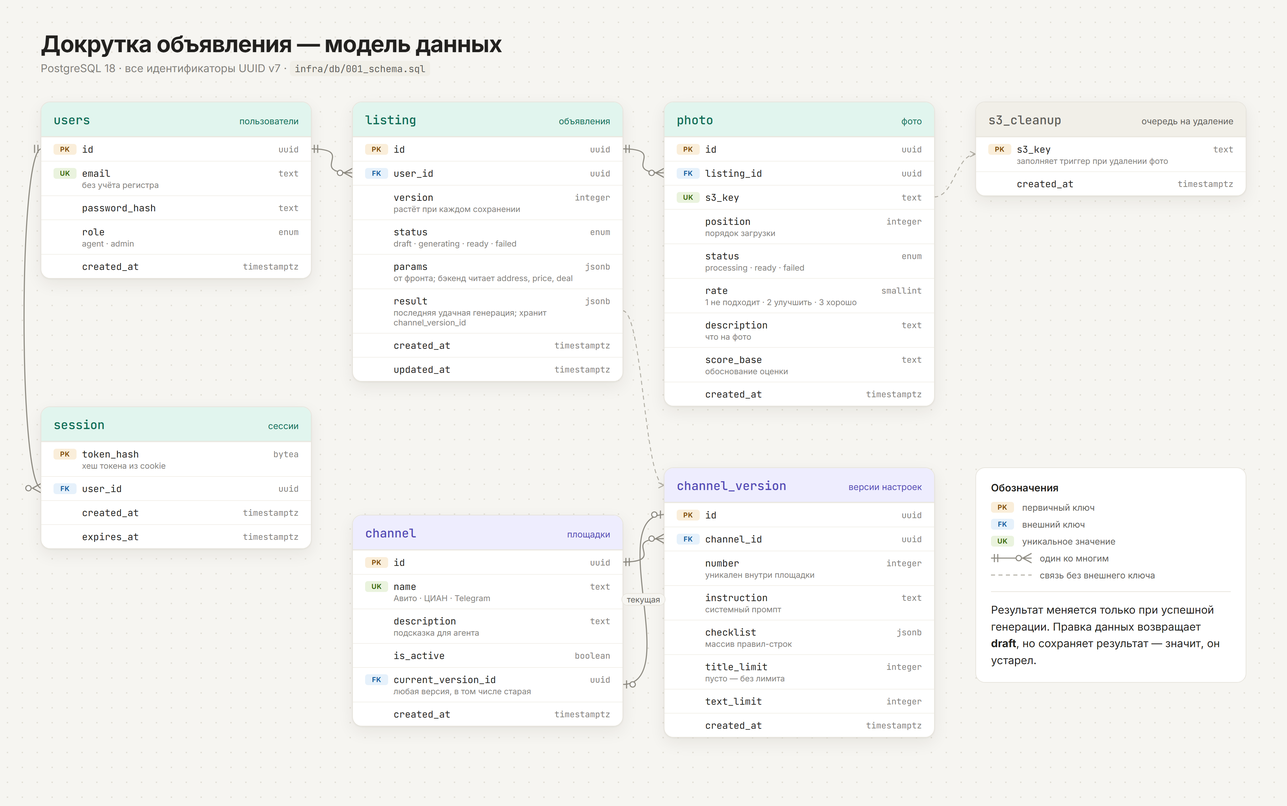
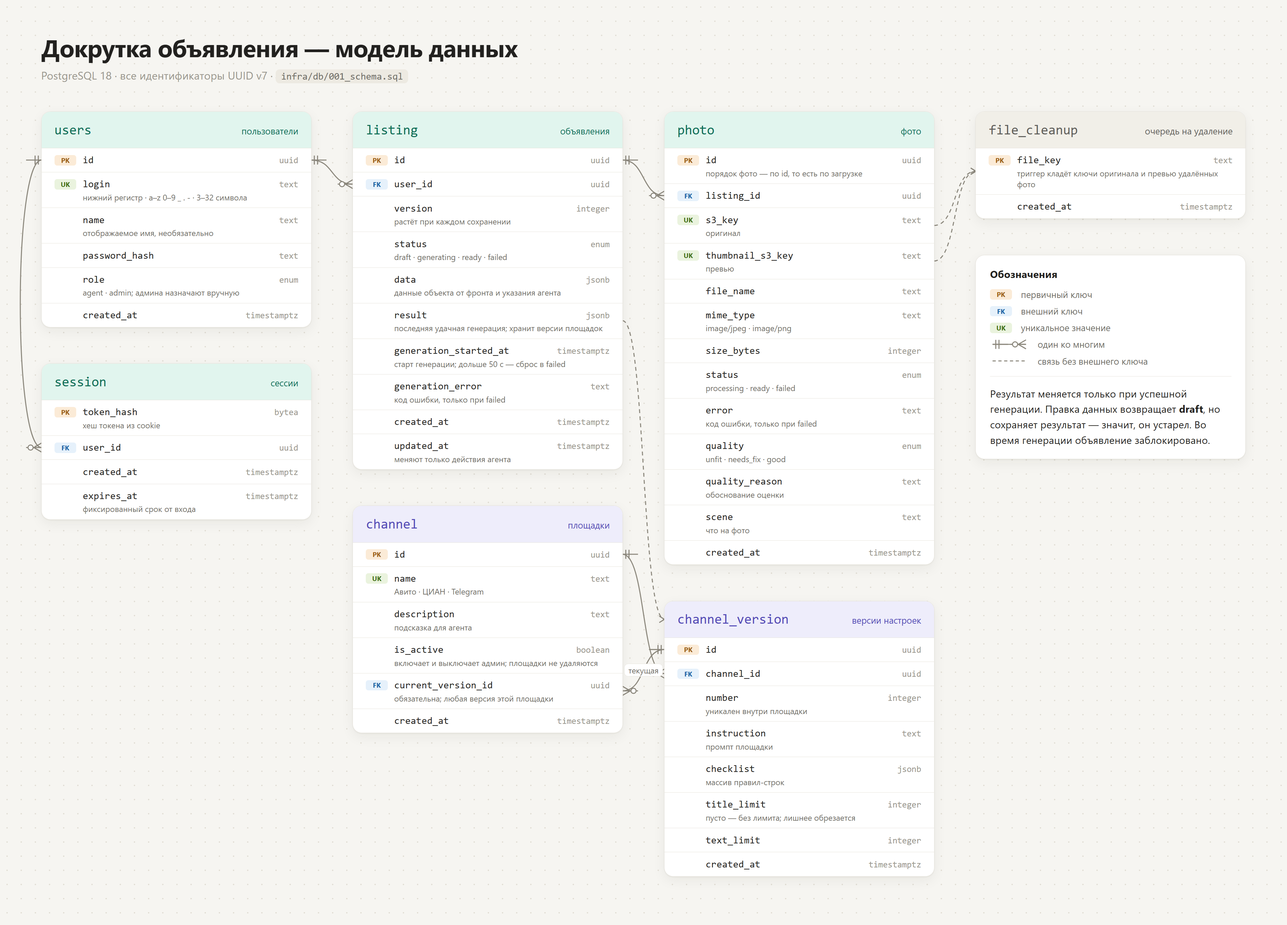
Пересобрать модель данных и записать требования
- users: вход по логину вместо email, необязательное отображаемое имя
- listing: params переименован в data, состояние генерации в объявлении
  (generation_started_at, generation_error), проверки согласованности статуса
- photo: превью, метаданные файла, код ошибки, AI-поля quality,
  quality_reason, scene; position убран, порядок — по загрузке
- channel: текущая версия обязательна
- s3_cleanup переименована в file_cleanup, в очередь попадает и превью
- infra/README.md и schema.png обновлены под новую схему
- docs/requirements.md: требования со стороны разработки и открытые вопросы

diff --git a/docs/requirements.md b/docs/requirements.md
@@ -1,0 +1,85 @@
+# Требования к продукту (со стороны разработки)
+
+Требования, которые следуют из модели данных и принятых технических решений. Это не пользовательские сценарии, а правила, которые обязаны соблюдать бэкенд, фронтенд и база.
+
+Статус: черновик, формируется при разборе схемы БД. Открытые вопросы — в конце.
+
+## Общие принципы
+
+- **О-1.** Названия полей в БД главные. Контракт API и код бэкенда следуют им или явно сопоставляют.
+- **О-2.** Все идентификаторы — UUID v7.
+
+## Пользователи и сессии
+
+- **П-1.** Вход по логину: 3–32 символа, только `A-Z a-z 0-9 _ . -`. Логин уникален без учёта регистра и хранится в нижнем регистре.
+- **П-2.** Пароль: 12–128 символов, не обрезается и не нормализуется. В БД хранится только хеш, формат хеша выбирает бэкенд.
+- **П-3.** Роли: `agent` и `admin`. Регистрация создаёт только агентов. Админа назначают вручную в БД, автоматического создания нет.
+- **П-8.** У пользователя есть необязательное отображаемое имя `name`. Если его нет, в интерфейсе показывается логин.
+- **П-9.** Блокировки пользователя нет: доступ закрывается только удалением, и данные удаляются вместе с ним.
+- **П-4.** Сессия: в cookie случайный токен, в БД только его хеш. Выход удаляет запись сессии.
+- **П-5.** Срок жизни сессии фиксированный и отсчитывается от момента входа. Скользящее продление пока не делаем.
+- **П-6.** Просроченные сессии периодически удаляются.
+- **П-7.** Роль в сессии не хранится, она читается из пользователя. Смена роли действует сразу.
+
+## Объявления
+
+- **Л-1.** Объявление принадлежит одному пользователю.
+- **Л-2.** Данные объекта хранятся одним JSON-документом в поле `data`. Его структуру задаёт контракт с фронтендом.
+- **Л-4.** Дополнительные указания агента для генерации хранятся в `data` вместе с остальными данными и учитываются при каждой генерации.
+- **Л-5.** `updated_at` меняется только от действий агента: правка данных, загрузка и удаление фото. Завершение генерации его не меняет. Список объявлений сортируется по `updated_at`.
+- **Л-3.** Защита от одновременного редактирования: у объявления есть версия, она растёт при каждом сохранении. Сохранение со старой версией отклоняется (`409`). К демо достаточно одного экрана «Объявление изменилось в другом окне, обновите страницу».
+
+## Генерация
+
+- **Г-1.** Генерация асинхронная и выполняется в фоне. Отдельной сущности «генерация» нет: состояние хранится в объявлении.
+- **Г-2.** На одно объявление одновременно идёт не больше одной генерации. Запуск атомарный: статус меняется на `generating`, только если генерация ещё не идёт.
+- **Г-3.** Во время генерации объявление заблокировано. Блокировку проверяет **бэкенд**: отклоняются правка данных, загрузка и удаление фото, удаление объявления.
+- **Г-4.** Время старта генерации сохраняется. Генерация, которая идёт дольше 50 секунд, сбрасывается в `failed`, блокировка снимается.
+- **Г-8.** Завершение генерации записывается только если объявление всё ещё в статусе `generating` и время старта совпадает с запуском. Поздний ответ сброшенной генерации отбрасывается и не перетирает новое состояние.
+- **Г-9.** Ошибка генерации хранится кодом, как у фото (Ф-8).
+- **Г-5.** Результат перезаписывается только при успешной генерации. Ошибка последней генерации хранится отдельно от результата, прошлый результат при сбое сохраняется.
+- **Г-6.** Правка данных возвращает статус `draft` и не стирает результат. `draft` вместе с непустым результатом означает «результат устарел».
+- **Г-7.** Результат хранит, на каких версиях площадок он получен.
+
+## Фото
+
+- **Ф-1.** У фото хранятся имя файла, MIME-тип, размер, позиция, статус, ключ файла и ключ превью в хранилище, ошибка обработки.
+- **Ф-2.** Статус `processing` покрывает подготовку превью и AI-оценку. `ready` — оба этапа завершены, `failed` — любой из них упал.
+- **Ф-3.** Генерация запускается, только когда все фото объявления в статусе `ready`.
+- **Ф-4.** AI-оценка фото — внутренние данные для генерации: `quality` (`unfit` / `needs_fix` / `good`), `quality_reason` (почему такая оценка), `scene` (что на фото). Фото не может быть `ready` без всех трёх полей.
+- **Ф-5.** Агент не меняет порядок фото вручную. Фото показываются в порядке загрузки, отдельного поля позиции нет: сортировка по `id` (UUID v7 растёт со временем). Рекомендованный порядок хранится только в результате генерации.
+- **Ф-6.** Фото в статусе `failed` не обрабатывается повторно: агент удаляет его и загружает заново.
+- **Ф-7.** На демо принимаются только JPEG и PNG. HEIC не поддерживается.
+- **Ф-8.** Ошибка обработки фото хранится кодом (`too_large`, `unsupported_format`, `ai_failed` и т. п.). Текст для пользователя бэкенд собирает по коду.
+
+## Площадки
+
+- **К-1.** У площадки есть уникальное название и описание-подсказка для агента. Машинного кода нет: площадки — это данные, и код не должен вести себя по-разному в зависимости от конкретной площадки. Всё поведение задаётся промптом, чек-листом и лимитами.
+- **К-2.** Админ создаёт площадки, включает и выключает их. Выключенная площадка не предлагается агентам, старые результаты по ней сохраняются.
+- **К-9.** Каждое сохранение настроек создаёт новую версию, даже если ничего не изменилось. Пропуск одинаковых версий — позже.
+- **К-10.** Автор версии не хранится.
+- **К-11.** Лимиты длины считаются в символах Unicode. Бэкенд сам проверяет длину ответа модели и обрезает то, что превышает лимит. Резать лучше по границе предложения или слова, а не посреди слова.
+- **К-12.** Общий системный промпт живёт в коде бэкенда и не версионируется: он меняется вместе с релизом. Версия площадки фиксирует только её собственные настройки.
+- **К-6.** Площадки не удаляются, только выключаются: на их версии ссылаются результаты.
+- **К-7.** У площадки всегда есть действующая версия настроек. Площадка и её первая версия создаются в одной транзакции.
+- **К-8.** Название, описание и признак включения не версионируются: они не влияют на результат генерации.
+- **К-3.** Настройки площадки (промпт, чек-лист, лимиты) версионируются. Версия неизменяема, каждое сохранение создаёт новую.
+- **К-4.** Чек-лист — упорядоченный список строк. Результат проверки ссылается на правила по порядку внутри версии.
+- **К-5.** Откат к старой версии — после демо.
+
+## Хранилище файлов
+
+- **Х-1.** Файлы хранятся в S3-совместимом хранилище.
+- **Х-2.** Файлы удаляются асинхронно через очередь `file_cleanup`. При удалении фото ключи оригинала и превью попадают в очередь в той же транзакции. Очередь заполняет триггер, поэтому каскадные удаления тоже учитываются. Фоновая задача стирает файл и только потом убирает ключ из очереди. Повторное удаление безопасно.
+- **Х-3.** Записи в очереди старше часа означают, что фоновая задача не работает.
+- **Х-4.** Осиротевшие файлы (загружены в хранилище, но запись в БД не создана) на демо допускаются осознанно. Сверку хранилища с БД можно добавить позже.
+
+## Открытые вопросы
+
+- Формат результата генерации (`listing.result`): обсуждается отдельно. Формат бэкенда и формат контракта сейчас расходятся. В любом случае результат хранит версии площадок (Г-7).
+
+- Открытая регистрация: кто угодно может завести аккаунт и тратить деньги на AI. Для демо неважно, решить до реальной эксплуатации.
+- Поле `name`: как его задавать — при регистрации или позже в профиле. В контракте его пока нет.
+
+- Лимит в 20 фото на объявление.
+- Какое хранилище на демо (MinIO в Compose?).

diff --git a/infra/README.md b/infra/README.md
@@ -19,31 +19,37 @@ docker compose up --build -d --wait
 
 | Таблица | Назначение |
 |---|---|
-| `users` | Агенты и админы. Вход по email, без учёта регистра. |
-| `session` | Вошедшие пользователи. В cookie лежит токен, в базе его хеш. Выход удаляет запись. |
+| `users` | Агенты и админы. Вход по логину, логин хранится в нижнем регистре. Необязательное отображаемое имя. |
+| `session` | Вошедшие пользователи. В cookie лежит токен, в базе его хеш. Срок жизни фиксированный. Выход удаляет запись. |
 | `channel` | Площадка: название, описание для агента, включена ли, текущая версия настроек. |
-| `channel_version` | Неизменяемая версия настроек площадки: промпт, чеклист, лимиты. Новое сохранение создаёт новую версию. |
-| `listing` | Объявление: данные объекта от фронта, результат последней удачной генерации, статус. |
-| `photo` | Фото объявления и его оценка нейросетью. |
-| `s3_cleanup` | Ключи файлов удалённых фото, которые фоновая задача должна стереть из S3. |
+| `channel_version` | Неизменяемая версия настроек площадки: промпт, чеклист, лимиты. Каждое сохранение создаёт новую версию. |
+| `listing` | Объявление: данные объекта от фронта, результат последней удачной генерации, состояние генерации. |
+| `photo` | Фото объявления: файл и превью в хранилище, метаданные, оценка нейросетью. |
+| `file_cleanup` | Ключи файлов удалённых фото, которые фоновая задача должна стереть из хранилища. |
 
-Все идентификаторы — UUID.
+Все идентификаторы — UUID v7. Полный список требований — в [docs/requirements.md](../docs/requirements.md).
 
 ## Договорённости
 
-**Генерация.** Отдельной таблицы генераций нет.
-- `result` перезаписывается только при успешной генерации. Во время генерации и после сбоя в нём остаётся прошлый результат.
+**Пользователи.** Регистрация создаёт только агентов. Админа назначают вручную в базе. Блокировки нет: доступ закрывается удалением пользователя вместе с его данными.
+
+**Генерация.** Отдельной таблицы генераций нет, состояние хранится в объявлении.
+- Во время генерации объявление заблокировано: бэкенд отклоняет правку данных, загрузку и удаление фото, удаление объявления.
+- Запуск атомарный: статус меняется на `generating`, только если генерация ещё не идёт. Время старта пишется в `generation_started_at`.
+- Генерация дольше 50 секунд сбрасывается в `failed`. Поздний ответ такой генерации отбрасывается: результат записывается, только если статус всё ещё `generating` и время старта совпадает.
+- `result` перезаписывается только при успешной генерации. При сбое в нём остаётся прошлый результат, а код ошибки пишется в `generation_error`.
 - Изменение данных объекта возвращает статус `draft`, но `result` не стирает. Статус `draft` вместе с непустым `result` означает «результат устарел».
+- Формат `result` ещё обсуждается. В любом случае он хранит, на каких версиях площадок получен.
 
 **Одновременное редактирование.** `listing.version` растёт при каждом сохранении. Сохранение со старой версией отклоняется, и фронт показывает экран конфликта. У площадок ту же роль играет номер текущей версии.
 
-**Данные объекта.** Формат `listing.params` задаёт фронт, бэкенд передаёт его в генерацию целиком. Обязательны только ключи `address`, `price` и `deal`: из них бэкенд строит список объявлений.
+**Данные объекта.** Формат `listing.data` задаёт контракт с фронтом, бэкенд передаёт его в генерацию целиком. В `data` хранятся и дополнительные указания агента для генерации. `updated_at` меняют только действия агента: правка данных, загрузка и удаление фото.
 
-**Фото.** Нейросеть оценивает фото сразу после загрузки, оценка от генерации не зависит. Пока оценка не готова, статус `processing`; при сбое — `failed`. Генерация запускается, только когда все фото объявления в статусе `ready`.
+**Фото.** Принимаются только JPEG и PNG. После загрузки готовится превью и нейросеть оценивает фото: годность (`quality`), обоснование (`quality_reason`), что на фото (`scene`). Пока это не готово, статус `processing`; при сбое — `failed` с кодом ошибки в `error`. Такое фото агент удаляет и загружает заново. Генерация запускается, только когда все фото объявления в статусе `ready`. Порядок фото — порядок загрузки, рекомендованный порядок хранится только в результате генерации.
 
-**Версии площадок.** Текущей можно сделать любую версию, в том числе старую — это откат. Версии не удаляются: на них ссылаются результаты генерации через `channel_version_id`.
+**Площадки.** Площадки не удаляются, только выключаются. У площадки всегда есть текущая версия. Текущей можно сделать любую версию, в том числе старую — это откат (в интерфейсе после демо). Версии не удаляются: на них ссылаются результаты генерации. Лимиты считаются в символах, лишнее бэкенд обрезает. Общий системный промпт живёт в коде бэкенда и не версионируется.
 
-**Удаление.** Объявление удаляется сразу, вместе с фото. Ключи файлов триггер складывает в `s3_cleanup`, оттуда их забирает фоновая задача.
+**Удаление.** Объявление удаляется сразу, вместе с фото. Ключи оригинала и превью триггер складывает в `file_cleanup`, оттуда их забирает фоновая задача. Файлы, загруженные в хранилище без записи в базе, на демо допускаются.
 
 ## Начальные данные
 
